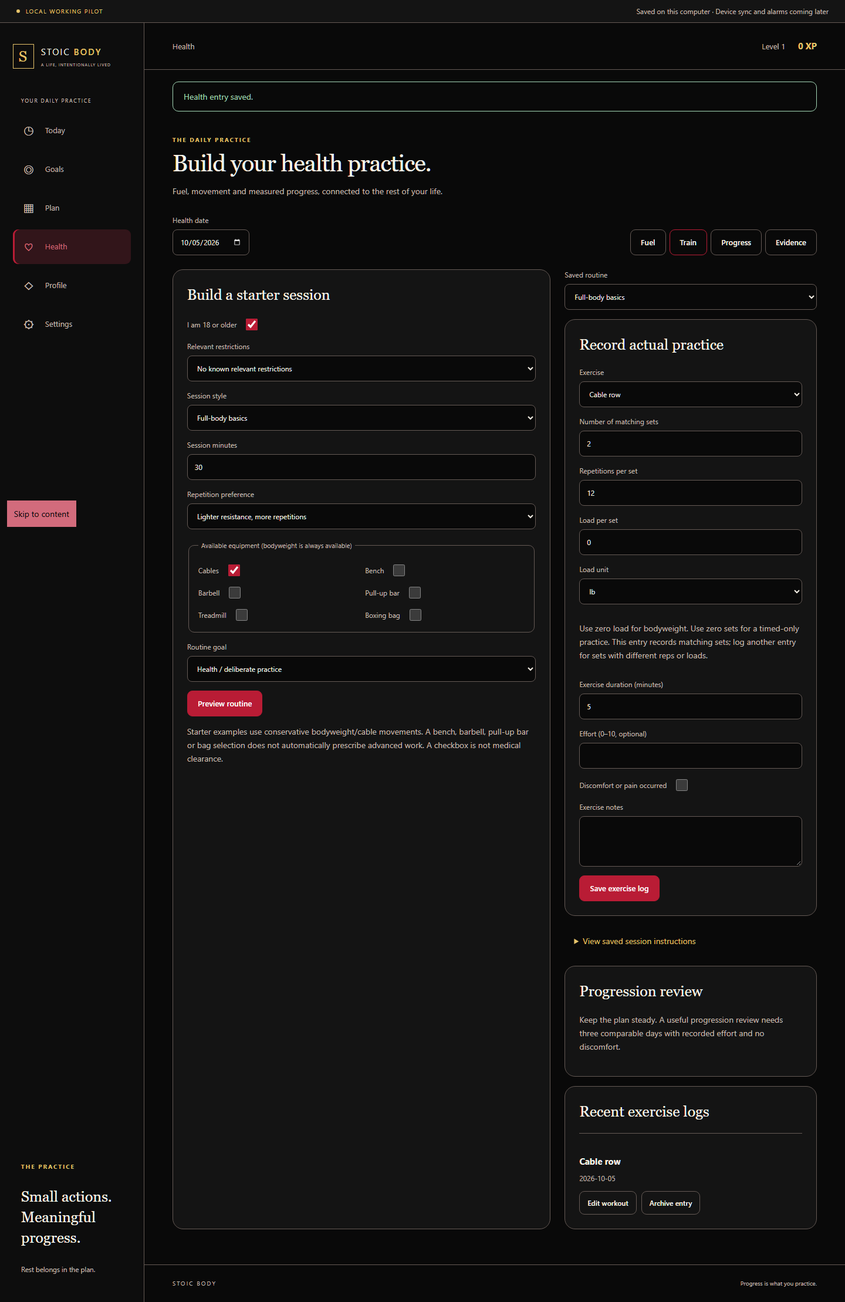
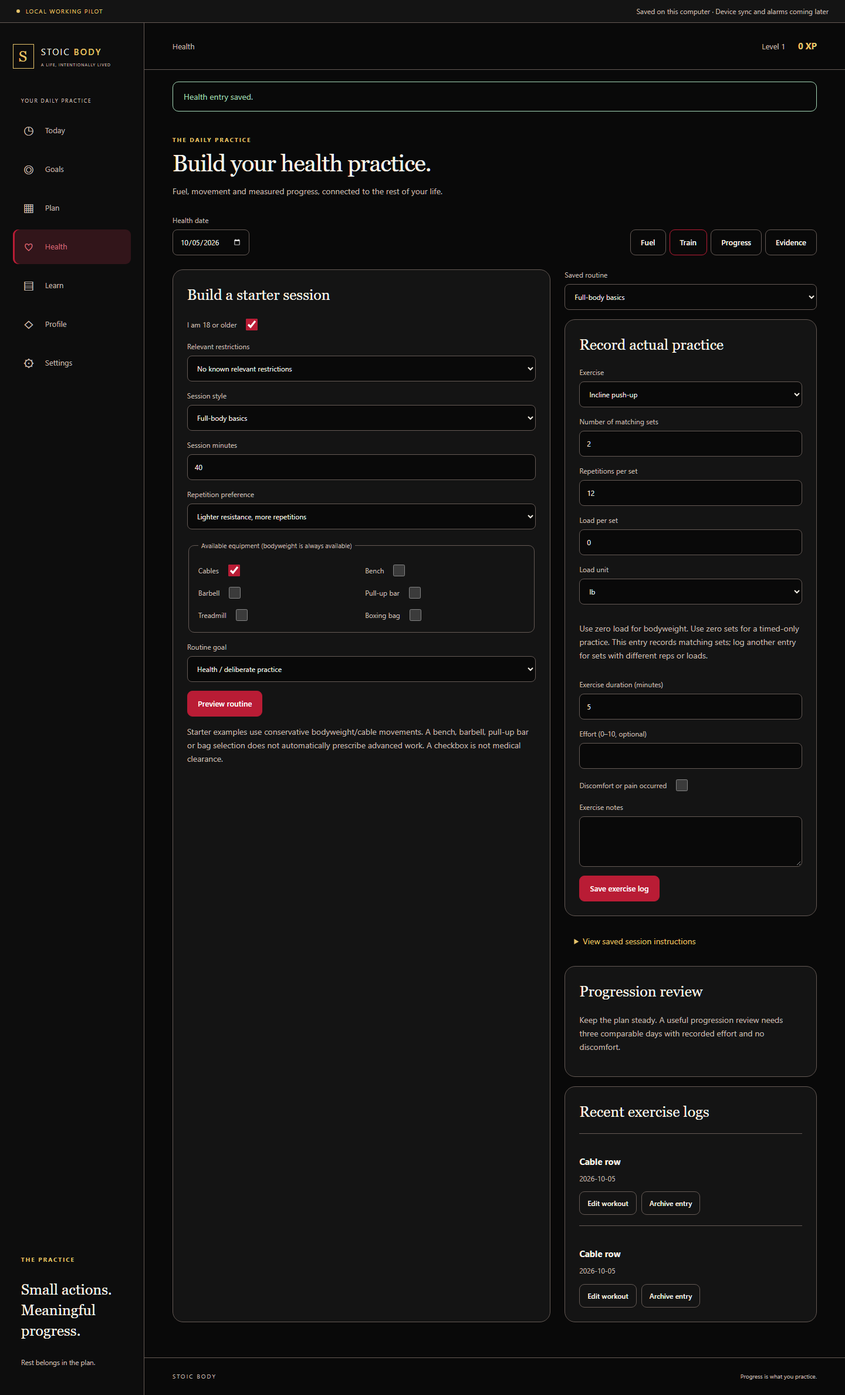
feat: connect learning paths and AI roadmap to daily practice

diff --git a/apps/local-pilot/public/learn.js b/apps/local-pilot/public/learn.js
@@ -1,0 +1,90 @@
+'use strict';
+window.Learn = (() => {
+  let ctx, catalog, selected = null, selectedCheckpoint = null, filter = 'all', loading = false, loadError = '';
+  const enrollment = id => ctx.snapshot().learning.find(e => e.id === id);
+  const el = (...args) => ctx.element(...args);
+  function link(label, url) { const a = el('a', `${label} ↗`, 'button ghost'); a.setAttribute('aria-label', label); a.href = url; a.target = '_blank'; a.rel = 'noopener noreferrer'; return a; }
+  function open(course) { selected = course.id; const saved = enrollment(course.id); selectedCheckpoint = course.checkpoints.find(s => !saved?.checkpoints[s.id]?.completed)?.id || course.checkpoints[0].id; ctx.render(); }
+  function progress(course, saved) {
+    const done = course.checkpoints.filter(s => saved?.checkpoints[s.id]?.completed).length;
+    const wrap = el('div', undefined, 'learn-progress'); const bar = el('progress'); bar.max = course.checkpoints.length; bar.value = done; bar.setAttribute('aria-label', `${course.title} checkpoint progress`);
+    wrap.append(el('span', `${done} / ${course.checkpoints.length} checkpoints`), bar); return wrap;
+  }
+  function stats(root) {
+    const s = ctx.snapshot(), states = s.learning.flatMap(e => Object.values(e.checkpoints)), taskIds = new Set(states.map(e => e.taskId));
+    const xp = s.occurrences.filter(o => taskIds.has(o.taskId)).reduce((n, o) => n + Math.floor((s.tasks.find(t => t.id === o.taskId)?.budget || 0) * o.fraction), 0);
+    const row = el('div', undefined, 'learn-stats');
+    for (const text of [`${s.learning.length} active paths`, `${states.filter(s => s.completed).length} checkpoints completed`, `${xp} practice XP`]) row.append(el('span', text, 'status-tag'));
+    root.append(row);
+  }
+  function render() {
+    ctx.intro('Build what you learn.', 'Pick a path. Practice something real. Let the next small win lead you forward.');
+    const root = el('div'); root.id = 'learn-root'; document.querySelector('#main').append(root);
+    if (!catalog) {
+      root.append(el('p', loadError || 'Opening your learning library…', 'muted'));
+      if (loadError) root.append(ctx.action('Retry course library', () => { loadError = ''; ctx.render(); }));
+      if (!loading && !loadError) { loading = true; void ctx.api('learning-content').then(result => { catalog = result.courses; }).catch(() => { loadError = 'The course library could not load. Reconnect the local app and try again.'; }).finally(() => { loading = false; if (document.querySelector('#learn-root')) ctx.render(); }); }
+      return;
+    }
+    stats(root);
+    if (selected) detail(root, catalog.find(c => c.id === selected)); else library(root);
+  }
+  function library(root) {
+    const hero = el('section', undefined, 'pilot-hero learn-hero');
+    hero.append(el('span', 'FROM CURIOSITY TO CAPABILITY', 'eyebrow'), el('h2', 'Your next skill has a starting point.'), el('p', 'Free course material from Google, Microsoft, The Odin Project, Exercism and n8n. Learn on their sites; keep your practice and progress here.'));
+    root.append(hero);
+    const filters = el('div', undefined, 'health-tabs learn-filters'); filters.setAttribute('aria-label', 'Course filters');
+    for (const [id, label] of [['all', 'All paths'], ['mine', 'My paths'], ['Beginner', 'Beginner'], ['Intermediate', 'Intermediate']]) { const b = ctx.action(label, () => { filter = id; ctx.render(); }); b.setAttribute('aria-pressed', String(filter === id)); filters.append(b); }
+    root.append(filters);
+    const grid = el('div', undefined, 'learn-grid');
+    const visible = catalog.filter(c => filter === 'all' || (filter === 'mine' ? enrollment(c.id) : c.level === filter));
+    for (const c of visible) {
+      const saved = enrollment(c.id), card = ctx.card(); card.classList.add('learn-course');
+      card.append(el('span', `${c.level} · ${c.format}`, 'eyebrow'), el('h2', c.title), el('p', c.outcome), el('p', c.provider, 'muted'), progress(c, saved));
+      const b = ctx.action(saved ? 'Continue path' : 'Explore path', () => open(c), true); b.setAttribute('aria-label', `${saved ? 'Continue' : 'Explore'} ${c.title}`); card.append(b); grid.append(card);
+    }
+    if (!visible.length) grid.append(el('p', 'Choose All paths to find your first learning path.', 'muted'));
+    root.append(grid, el('p', 'Checkpoint completion is your own record, not a provider certificate. Courses open in a new tab and need internet access; local notes and scheduling work while this app is running offline. Optional labs may use paid services.', 'muted learn-footnote'));
+  }
+  function detail(root, course) {
+    root.append(ctx.action('Back to learning library', () => { selected = null; ctx.render(); }));
+    const saved = enrollment(course.id), header = ctx.card(); header.classList.add('learn-header');
+    header.append(el('span', course.provider, 'eyebrow'), el('h2', course.title), el('p', course.outcome), progress(course, saved));
+    const links = el('div', undefined, 'pilot-actions'); links.append(link('Open full learning resource', course.url));
+    if (!saved) links.append(ctx.action('Start this path', () => ctx.command('learning.enroll', course.id, {}, 0, 'Learning path started.'), true));
+    header.append(links, el('p', `Before you start: ${course.prerequisite}`, 'muted'), el('p', course.cost, 'learn-cost'), el('p', `Links reviewed ${course.reviewed}. The checkpoints below are original starter exercises. Complete the full provider syllabus on its site; these timeboxes are for practice, not the entire course.`, 'muted'));
+    root.append(header);
+    const columns = el('div', undefined, 'learn-layout'), roadmap = ctx.card('Your practice route');
+    course.checkpoints.forEach((s, i) => {
+      const b = ctx.action(`${saved?.checkpoints[s.id]?.completed ? '✓' : String(i + 1).padStart(2, '0')}  ${s.title}`, () => { selectedCheckpoint = s.id; ctx.render(); });
+      b.classList.add('learn-step'); b.setAttribute('aria-pressed', String(selectedCheckpoint === s.id)); roadmap.append(b);
+    });
+    roadmap.append(el('p', 'Suggested order. Revisit any step at your own pace.', 'muted'));
+    const s = course.checkpoints.find(s => s.id === selectedCheckpoint) || course.checkpoints[0], state = saved?.checkpoints[s.id];
+    const work = ctx.card(s.title); work.append(el('span', `${s.minutes}-minute suggested practice`, 'eyebrow'), el('h3', 'Make this tangible'), el('p', s.deliverable), link('Open lesson or reference', s.url));
+    if (saved) {
+      const form = el('form', undefined, 'pilot-form learn-notes');
+      const label = el('label', 'Practice notes'), notes = el('textarea'); notes.setAttribute('aria-label', 'Practice notes'); notes.maxLength = 4000; notes.value = state.notes; label.append(notes); form.append(label);
+      form.addEventListener('submit', event => event.preventDefault());
+      const save = completed => ctx.command('learning.checkpoint', course.id, { checkpointId: s.id, completed, notes: notes.value }, saved.revision, 'Checkpoint saved.');
+      const actions = el('div', undefined, 'pilot-actions'); actions.append(ctx.action('Save notes', () => save(state.completed)), ctx.action(state.completed ? 'Reopen checkpoint' : 'Mark checkpoint complete', () => save(!state.completed), true));
+      form.append(actions, el('p', 'Your self-reported progress. Notes and checkmarks earn no XP; complete a scheduled practice session in Today to earn up to 15 XP.', 'muted')); work.append(form);
+      if (state.taskId) {
+        const task = ctx.snapshot().tasks.find(t => t.id === state.taskId);
+        work.append(el('p', task?.archived ? 'Practice task is archived. Restore it in Goals to schedule it.' : `Practice task saved · ${task?.durationMinutes || 0} minutes. Its completion is tracked in Today.`, 'saved-state'), ctx.action('Review schedule', () => ctx.navigate('plan')), ctx.action('Manage practice task', () => ctx.navigate('goals')));
+      } else {
+        const plan = el('form', undefined, 'pilot-form learn-plan');
+        const minutesLabel = el('label', 'Practice minutes'), minutes = el('input'); minutes.type = 'number'; minutes.min = '10'; minutes.max = '120'; minutes.step = '1'; minutes.required = true; minutes.value = String(s.minutes); minutes.setAttribute('aria-label', 'Practice minutes'); minutesLabel.append(minutes);
+        const goalLabel = el('label', 'Supporting goal'), goal = el('select'); goal.setAttribute('aria-label', 'Supporting goal');
+        for (const g of [{ id: '', title: 'Choose later' }, ...ctx.snapshot().goals.filter(g => !g.archived)]) { const o = el('option', g.title); o.value = g.id; goal.append(o); } goalLabel.append(goal);
+        const button = el('button', 'Add practice task', 'button primary'); button.type = 'submit'; button.dataset.save = '';
+        plan.append(minutesLabel, goalLabel, button, el('p', 'Adds one task for this checkpoint. Review its place in Plan before it enters your calendar.', 'muted'));
+        plan.addEventListener('submit', event => { event.preventDefault(); void ctx.command('learning.practice', course.id, { checkpointId: s.id, minutes: Number(minutes.value), goalId: goal.value || null }, saved.revision, 'Practice task added. Review its time in Plan.'); }); work.append(plan);
+      }
+      const next = course.checkpoints.find(step => !saved.checkpoints[step.id].completed && step.id !== s.id);
+      if (state.completed && next) work.append(ctx.action(`Next: ${next.title}`, () => { selectedCheckpoint = next.id; ctx.render(); }));
+    } else work.append(el('p', 'Start this path to save notes, track checkpoints and add practice to your schedule.', 'muted'));
+    columns.append(roadmap, work); root.append(columns);
+  }
+  return { init: value => { ctx = value; }, render };
+})();

diff --git a/src/core/learning-content.ts b/src/core/learning-content.ts
@@ -16,6 +16,19 @@ const links = {
 const step = (id: string, title: string, url: string, minutes: number, deliverable: string): Checkpoint => ({ id, title, url, minutes, deliverable });
 const course = (c: Omit<Course, 'reviewed'>): Course => ({ ...c, reviewed: '2026-10-04' });
 export const courses: Course[] = [
+  course({ id: 'ai-roadmap', title: 'AI from foundations to agents', provider: 'Microsoft open curricula + Google ML Crash Course', url: 'https://github.com/microsoft/AI-For-Beginners', level: 'Beginner', prerequisite: 'Start with concepts. Coding labs later need basic Python and the provider’s stated math/programming prerequisites; take extra sessions as needed.', cost: 'Free learning material. Local ML labs require suitable hardware; hosted notebooks, models and APIs may have separate costs. No paid lab is required to complete these conceptual checkpoints.', format: '11-topic guided learning path', outcome: 'Learn every concept in your AI roadmap, then connect it to a useful, testable business application. The practice order is a learning sequence, not a claim that all topics form one hierarchy.', checkpoints: [
+    step('ai', 'AI — the broad field', 'https://github.com/microsoft/AI-For-Beginners', 25, 'Read the introduction. Compare a rule-based expert system, a learned classifier and a planning agent. Draw a concept map: AI is the broad field; not every AI system learns from data.'),
+    step('ml', 'ML — learning from data', 'https://github.com/microsoft/ML-For-Beginners', 30, 'Choose a simple prediction problem. Identify examples, features and labels; sketch separate training and test data. Explain why evaluating on training examples alone is misleading.'),
+    step('dl', 'Deep learning — neural networks', 'https://developers.google.com/machine-learning/crash-course', 30, 'Study the neural networks section after its prerequisites. Draw inputs, layers and outputs. Explain how deep learning relates to machine learning, and name a case where a simpler model may be enough.'),
+    step('genai', 'Generative AI — creating content', links.genai, 30, 'Compare generating a draft with classifying an existing message. Design one useful synthetic example and a checklist for checking the generated output; distinguish fluent content from accurate content.'),
+    step('llms', 'LLMs — tokens, context and limits', 'https://developers.google.com/machine-learning/crash-course/llm', 30, 'Read the LLM introduction after the linked prerequisites. Explain tokens, context and model parameters. Write three questions where a plausible answer still needs independent verification.'),
+    step('prompting', 'Prompt engineering — clear instructions', `${links.genai}/tree/main/04-prompt-engineering-fundamentals`, 25, 'Write a task with clear context, constraints, an output format and success criteria. Compare two prompt versions on the same synthetic examples; record failures as well as improvements.'),
+    step('rag', 'RAG — retrieving useful evidence', `${links.genai}/tree/main/15-rag-and-vector-databases`, 35, 'Sketch a question-answering system over three sample documents: retrieve relevant passages, generate an answer and cite supporting evidence. Include a question the documents cannot answer. Retrieval adds context; it does not guarantee truth.'),
+    step('multimodal', 'Multimodal AI — text and images', `${links.genai}/tree/main/09-building-image-applications`, 30, 'Use the image-application lesson as an entry point. Design a workflow with text and image inputs or outputs. Write down what requires human inspection, consent and uncertainty labels; do not upload private photos for the exercise.'),
+    step('finetuning', 'Fine-tuning — changing model behavior', `${links.genai}/tree/main/18-fine-tuning`, 30, 'Compare prompting, retrieval and training updates for one use case. Define a small synthetic evaluation set and explain when fine-tuning would be unnecessary. A planning exercise is enough; do not start a paid training job.'),
+    step('safety', 'AI safety — boundaries and evaluation', `${links.genai}/tree/main/03-using-generative-ai-responsibly`, 30, 'Review a sample app for privacy, unreliable outputs, biased examples and malicious instructions in retrieved files. Write a permission rule, a failure test and a human-review step for each relevant risk.'),
+    step('agentic', 'Agentic AI — tools and controlled action', links.agents, 40, 'Design an agent that drafts a consulting deliverable using synthetic inputs. Define tools, state, a stopping rule and approval before external actions. Contrast it with a fixed workflow; use the separate agent systems path to continue.'),
+  ] }),
   course({ id: 'antigravity', title: 'Antigravity & AI-assisted building', provider: 'Google Codelabs + Antigravity docs', url: links.antigravity, level: 'Beginner', prerequisite: 'Desktop computer, Antigravity access and a small project idea.', cost: 'Free guides. Antigravity access uses your plan. Google AI Ultra has usage limits; optional credit overages and cloud labs may cost extra.', format: 'Guided labs + documentation', outcome: 'Scope, build and review a small app; understand your Ultra usage before scaling up.', checkpoints: [
     step('scope', 'Write a build brief', links.antigravity, 25, 'Describe one user, one problem and three acceptance checks. Ask for a plan, inspect its assumptions, and save the reviewed brief before generating code.'),
     step('build', 'Build one useful slice', links.build, 45, 'Implement one screen and one real interaction in a practice project. Record what you tested, one generated-code issue you found, and how you corrected it.'),

diff --git a/apps/local-pilot/public/health.js b/apps/local-pilot/public/health.js
@@ -120,14 +120,16 @@ window.Health = (() => {
     field(f, 'goal', 'Routine goal', 'select', trainingDraft.goalId || '', [['', 'Health / deliberate practice'], ...ctx.snapshot().goals.filter(g => !g.archived).map(g => [g.id, g.title])], false);
     submit(f, 'Preview routine', () => { trainingDraft = { adult: f.elements.adult.checked, restrictions: value(f, 'restrictions'), style: value(f, 'style'), minutes: numeric(f, 'minutes'), preference: value(f, 'preference'), equipment: ['cables', 'bench', 'barbell', 'pullup', 'treadmill', 'bag'].filter(k => f.elements[k].checked), goalId: value(f, 'goal') || null }; void ctx.send('training-preview', trainingDraft, 'Routine preview ready. Review before saving.'); });
     c.append(el('p', 'Starter examples use conservative bodyweight/cable movements. A bench, barbell, pull-up bar or bag selection does not automatically prescribe advanced work. A checkbox is not medical clearance.', 'muted')); left.append(c);
-    if (preview) { const review = routineCard(preview, 'Review your starter session'); if (preview.eligible) review.append(button('Save routine to tasks', () => ctx.command('training.create', crypto.randomUUID(), preview.input, 0, 'Routine saved. Review its place in Plan.'), true)); left.append(review); }
+    let previewPanel;
+    if (preview) { const review = routineCard(preview, 'Review your starter session'); previewPanel = review; if (preview.eligible) review.append(button('Save routine to tasks', () => ctx.command('training.create', crypto.randomUUID(), preview.input, 0, 'Routine saved. Review its place in Plan.'), true)); left.append(review); }
+    f.addEventListener('input', () => { preview = null; previewPanel?.remove(); });
     const routines = records().filter(r => r.kind === 'routine' && !r.archived);
     if (routines.length) {
       if (!routines.some(r => r.id === selectedRoutine)) selectedRoutine = routines[0].id;
       const picker = el('form', undefined, 'pilot-form'), select = field(picker, 'routine', 'Saved routine', 'select', selectedRoutine, routines.map(r => [r.id, r.data.title])); select.addEventListener('change', () => { selectedRoutine = select.value; selectedExercise = ''; edits.workout = null; ctx.render(); }); right.append(picker);
       const routine = routines.find(r => r.id === selectedRoutine), [log, lf, ld] = editor('workout', 'Record actual practice');
       if (!routine.data.exercises.some(e => e.name === selectedExercise)) selectedExercise = routine.data.exercises[0].name;
-      const exercise = field(lf, 'exercise', 'Exercise', 'select', selectedExercise, routine.data.exercises.map(e => [e.name, e.name])); exercise.addEventListener('change', () => { selectedExercise = exercise.value; });
+      const exercise = field(lf, 'exercise', 'Exercise', 'select', selectedExercise, routine.data.exercises.map(e => [e.name, e.name])); exercise.addEventListener('change', () => { selectedExercise = exercise.value; loadAdvice(); });
       const firstSet = ld.sets?.[0]; field(lf, 'count', 'Number of matching sets', 'number', ld.sets?.length ?? 2); field(lf, 'reps', 'Repetitions per set', 'number', firstSet?.reps ?? 12); field(lf, 'load', 'Load per set', 'number', firstSet?.load ?? 0); field(lf, 'unit', 'Load unit', 'select', firstSet?.unit || 'lb', [['lb', 'lb'], ['kg', 'kg']]);
       lf.append(el('p', 'Use zero load for bodyweight. Use zero sets for a timed-only practice. This entry records matching sets; log another entry for sets with different reps or loads.', 'muted'));
       field(lf, 'duration', 'Exercise duration (minutes)', 'number', ld.duration || 5); field(lf, 'effort', 'Effort (0–10, optional)', 'number', ld.effort, [], false); field(lf, 'pain', 'Discomfort or pain occurred', 'checkbox', ld.pain || false, [], false); field(lf, 'notes', 'Exercise notes', 'textarea', ld.notes, [], false);
@@ -135,7 +137,12 @@ window.Health = (() => {
       lf.elements.count.addEventListener('input', () => lf.elements.count.setCustomValidity(''));
       right.append(log); const details = el('details'); details.append(el('summary', 'View saved session instructions'), routineCard(routine.data)); right.append(details);
       const advice = ctx.card('Progression review'); advice.append(el('p', 'Loading your practice history…', 'muted')); right.append(advice); const current = generation;
-      void ctx.api('training-advice', { routineId: selectedRoutine, exercise: selectedExercise }).then(result => { if (current === generation && advice.isConnected) { advice.replaceChildren(el('h2', 'Progression review'), el('p', result.text, 'muted')); } }).catch(e => { if (advice.isConnected) advice.textContent = e.message; });
+      let adviceRequest = 0;
+      function loadAdvice() {
+        const request = ++adviceRequest; advice.replaceChildren(el('h2', 'Progression review'), el('p', 'Loading your practice history…', 'muted'));
+        void ctx.api('training-advice', { routineId: selectedRoutine, exercise: selectedExercise }).then(result => { if (request === adviceRequest && current === generation && advice.isConnected) { advice.replaceChildren(el('h2', 'Progression review'), el('p', result.text, 'muted')); } }).catch(e => { if (request === adviceRequest && advice.isConnected) advice.textContent = e.message; });
+      }
+      loadAdvice();
       list('workout', right, 'Recent exercise logs');
     } else right.append(el('p', 'Save a reviewed routine to unlock exercise logging. Its task will appear in Plan; you choose when it belongs in your day.', 'empty'));
     columns.append(left, right); root.append(columns);

diff --git a/scripts/test-learning-pilot.ts b/scripts/test-learning-pilot.ts
@@ -1,0 +1,47 @@
+import assert from 'node:assert/strict';
+import { chromium } from 'playwright';
+import { mkdirSync, writeFileSync, mkdtempSync, rmSync } from 'node:fs';
+import { tmpdir } from 'node:os';
+import { resolve, join, dirname, basename } from 'node:path';
+import { startPilot } from '../apps/local-pilot/server';
+async function run() {
+  const dir = mkdtempSync(join(tmpdir(), 'stoic-learning-')), databasePath = join(dir, 'learning.sqlite');
+  let pilot = await startPilot({ databasePath, port: 0 });
+  let browser = await chromium.launch({ headless: true });
+  let page = await browser.newPage({ viewport: { width: 1440, height: 1000 }, timezoneId: 'America/Denver' });
+  const checks: string[] = [], errors: string[] = []; page.on('pageerror', e => errors.push(e.message)); page.setDefaultTimeout(5000);
+  const check = (name: string, value = true) => { assert.ok(value, name); checks.push(name); };
+  const evidence = resolve('docs/evidence/phase-6-learning'); mkdirSync(evidence, { recursive: true });
+  try {
+    await page.goto(`${pilot.url}/?view=learn`); await page.getByRole('heading', { name: 'Build what you learn.' }).waitFor();
+    await page.getByRole('button', { name: 'Explore Antigravity & AI-assisted building', exact: true }).click();
+    check('real external guide with isolated new tab', await page.getByRole('link', { name: 'Open full learning resource' }).getAttribute('href') === 'https://codelabs.developers.google.com/getting-started-google-antigravity');
+    check('Ultra cost boundary visible', (await page.locator('#main').innerText()).includes('Google AI Ultra has usage limits'));
+    await page.getByRole('button', { name: 'Start this path', exact: true }).click(); await page.getByText('Learning path started.', { exact: true }).waitFor();
+    await page.getByLabel('Practice notes').fill('Synthetic build brief, three acceptance checks.');
+    await page.getByRole('button', { name: 'Mark checkpoint complete', exact: true }).click(); await page.getByText('Checkpoint saved.', { exact: true }).waitFor();
+    check('checkpoint progress remains separate from XP', (await page.locator('#main').innerText()).includes('1 / 4 checkpoints') && (await page.locator('#total-xp').innerText()) === '0 XP');
+    await page.getByRole('button', { name: 'Reopen checkpoint', exact: true }).click(); await page.getByText('0 / 4 checkpoints', { exact: true }).waitFor();
+    check('checkpoint completion can be reversed');
+    await page.getByRole('button', { name: 'Add practice task', exact: true }).click(); await page.getByText('Practice task added. Review its time in Plan.', { exact: true }).waitFor();
+    check('repeat planning is replaced by a link to the existing task', await page.getByRole('button', { name: 'Add practice task', exact: true }).count() === 0);
+    await page.screenshot({ path: join(evidence, 'learn-desktop.png'), fullPage: true });
+    await page.getByRole('button', { name: 'Plan', exact: true }).click(); await page.locator('#plan-form input[name=date]').fill('2026-10-06');
+    await page.getByRole('button', { name: 'Preview schedule', exact: true }).click(); await page.getByRole('button', { name: 'Accept schedule', exact: true }).click();
+    await page.getByRole('button', { name: 'Today', exact: true }).click(); await page.getByRole('button', { name: 'Complete', exact: true }).click(); await page.locator('#total-xp').filter({ hasText: '15 XP' }).waitFor();
+    check('practice earns the agreed 15 XP through calendar completion');
+    await page.getByRole('button', { name: 'Learn', exact: true }).click(); await page.getByText('15 practice XP', { exact: true }).waitFor();
+    await page.setViewportSize({ width: 390, height: 844 }); check('Learn fits a narrow mobile screen', await page.evaluate(() => document.documentElement.scrollWidth <= innerWidth));
+    await page.screenshot({ path: join(evidence, 'learn-mobile.png'), fullPage: true });
+    await browser.close(); await pilot.close(); pilot = await startPilot({ databasePath, port: 0 });
+    browser = await chromium.launch({ headless: true }); page = await browser.newPage(); page.setDefaultTimeout(5000); page.on('pageerror', e => errors.push(e.message));
+    await page.goto(`${pilot.url}/?view=learn`); await page.getByRole('button', { name: 'Continue Antigravity & AI-assisted building', exact: true }).click();
+    assert.equal(await page.getByLabel('Practice notes').inputValue(), 'Synthetic build brief, three acceptance checks.'); await page.getByText('15 practice XP', { exact: true }).waitFor();
+    check('notes, linked task and XP survive a real server restart');
+    await page.getByRole('button', { name: 'Back to learning library', exact: true }).click();
+    await page.getByRole('button', { name: 'My paths', exact: true }).click(); check('enrolled filter shows one course', await page.locator('.learn-course').count() === 1);
+    check('no browser runtime errors', errors.length === 0);
+    writeFileSync(join(evidence, 'browser-checks.json'), JSON.stringify({ at: new Date().toISOString(), checks, errors }, null, 2)); console.log(`${checks.length} learning browser checks passed.`);
+  } finally { await browser.close(); await pilot.close(); const target = resolve(dir); assert.equal(dirname(target), resolve(tmpdir())); assert.ok(basename(target).startsWith('stoic-learning-')); rmSync(target, { recursive: true, force: true }); }
+}
+run().catch(e => { console.error(e); process.exitCode = 1; });

diff --git a/apps/local-pilot/public/styles.css b/apps/local-pilot/public/styles.css
@@ -4,3 +4,6 @@
 .pilot-form .checkbox-label{display:flex;flex-direction:row;align-items:center;gap:12px}.pilot-form .checkbox-label input{width:20px;height:20px;min-height:20px;accent-color:var(--action)}
 .health-toolbar{display:flex;align-items:end;justify-content:space-between;gap:20px;margin:12px 0 24px}.health-tabs{display:flex;flex-wrap:wrap;gap:6px}.health-tabs [aria-current=page]{border-color:var(--action);background:var(--action-soft);color:var(--text)}.health-primary-metric{font-size:20px;line-height:1.5;color:var(--gold)}.health-source{font-size:12px;overflow-wrap:anywhere}.health-source a{color:var(--gold);text-decoration:underline}.health-source small{display:block;line-height:1.6}.health-table{width:100%;border-collapse:collapse;font-size:13px}.health-table caption{text-align:left;padding:12px 0;color:var(--muted)}.health-table th,.health-table td{padding:10px;border-bottom:1px solid var(--line);text-align:left}.pilot-form fieldset{border:1px solid var(--line);border-radius:10px;display:grid;grid-template-columns:1fr 1fr;gap:12px;padding:16px}.pilot-form legend{font-size:11px;color:var(--muted);padding:5px}.pilot-form details label{display:grid;gap:8px;margin-top:12px}.pilot-card h3{margin-top:18px}.pilot-card p{line-height:1.65;overflow-wrap:anywhere}.pilot-stack>details>summary{cursor:pointer;padding:16px;color:var(--gold)}
 @media(max-width:700px){.health-toolbar{display:grid;gap:18px}.health-tabs{display:grid;grid-template-columns:repeat(4,1fr)}.health-tabs button{padding:10px 8px}.health-primary-metric{font-size:18px}.pilot-form fieldset{grid-template-columns:1fr 1fr}}
+.learn-stats{display:flex;flex-wrap:wrap;gap:10px;margin-bottom:24px}.learn-stats .status-tag{font-size:12px;padding:8px 12px}.learn-filters{margin:26px 0 20px}.learn-filters [aria-pressed=true],.learn-step[aria-pressed=true]{background:var(--soft);border-color:var(--action);color:var(--text)}.learn-grid{display:grid;grid-template-columns:repeat(2,minmax(0,1fr));gap:20px}.learn-course{display:flex;align-items:start;flex-direction:column;gap:12px}.learn-course h2{margin:4px 0 0}.learn-course p{margin:0}.learn-course .eyebrow{font-size:9px;line-height:1.8;letter-spacing:1px}.learn-course .learn-progress{margin-top:auto}.learn-progress{display:grid;gap:9px;width:100%;color:var(--muted);font-size:12px;padding:14px 0}.learn-progress progress{width:100%;height:7px;border:0;border-radius:8px;background:var(--line);accent-color:var(--gold)}.learn-progress progress::-webkit-progress-bar{background:var(--line);border-radius:8px}.learn-progress progress::-webkit-progress-value{background:var(--gold);border-radius:8px}.learn-header{margin:20px 0}.learn-header h2{margin:10px 0}.learn-header .muted{font-size:12px}.learn-cost{border-left:2px solid var(--gold);padding-left:14px;font-size:13px}.learn-layout{display:grid;grid-template-columns:minmax(200px,1fr) minmax(0,1.7fr);gap:20px;align-items:start}.learn-step{width:100%;display:block;text-align:left;margin:10px 0;white-space:normal;line-height:1.5}.learn-notes{margin-top:24px}.learn-plan{padding-top:24px;margin-top:24px;border-top:1px solid var(--line)}.learn-footnote{font-size:12px;margin-top:24px}.learn-layout .muted{font-size:12px}.learn-layout a.button,.learn-header a.button{white-space:normal;text-align:left;overflow-wrap:anywhere}
+@media(max-width:900px){.learn-layout{grid-template-columns:1fr}.learn-grid{grid-template-columns:1fr}.learn-stats{gap:7px}.learn-stats .status-tag{font-size:10px}.learn-filters .button{font-size:12px;padding:10px 12px}}
+.skip-link:not(:focus){clip-path:inset(50%);width:1px;height:1px;overflow:hidden;padding:0}

diff --git a/scripts/test-health-pilot.ts b/scripts/test-health-pilot.ts
@@ -35,11 +35,17 @@ async function run() {
     await page.getByRole('button', { name: 'Preview routine', exact: true }).click();
     await page.getByText(/Starter generation is for adults/).waitFor(); check('unknown suitability cannot save a generated routine', await page.getByRole('button', { name: 'Save routine to tasks', exact: true }).count() === 0);
     await page.getByLabel('I am 18 or older', { exact: true }).check(); await page.getByLabel('Relevant restrictions').selectOption('none'); await page.getByLabel('Cables', { exact: true }).check();
+    await page.getByRole('button', { name: 'Preview routine', exact: true }).click(); await page.getByRole('button', { name: 'Save routine to tasks', exact: true }).waitFor(); await page.getByLabel('Session minutes').fill('40');
+    check('changed inputs invalidate the earlier routine preview', await page.getByRole('button', { name: 'Save routine to tasks', exact: true }).count() === 0);
     await page.getByRole('button', { name: 'Preview routine', exact: true }).click(); await page.getByRole('button', { name: 'Save routine to tasks', exact: true }).click();
     await page.getByText('Routine saved. Review its place in Plan.', { exact: true }).waitFor(); check('routine is saved as an unscheduled task');
     await page.getByLabel('Exercise', { exact: true }).selectOption({ label: 'Cable row' });
     await page.getByLabel('Repetitions per set').fill('12'); await page.getByLabel('Load per set').fill('20'); await page.getByLabel('Effort (0–10, optional)').fill('6'); await saved('Save exercise log');
     check('exercise log alone does not award XP', await page.locator('#total-xp').textContent() === '0 XP');
+    await page.getByLabel('Discomfort or pain occurred').check(); await saved('Save exercise log');
+    await page.getByText(/Recent discomfort or very high effort:/).waitFor();
+    await page.getByLabel('Exercise', { exact: true }).selectOption({ label: 'Incline push-up' });
+    await page.getByText(/Keep the plan steady. A useful progression review/).waitFor(); check('progression advice follows the selected exercise');
     await page.screenshot({ path: join(evidence, 'health-desktop.png'), fullPage: true });
     await page.getByRole('button', { name: 'Plan', exact: true }).click(); await page.getByRole('button', { name: 'Preview schedule', exact: true }).click(); await page.getByRole('button', { name: 'Accept schedule', exact: true }).click();
     await page.getByRole('button', { name: 'Today', exact: true }).click(); await page.getByRole('button', { name: 'Complete', exact: true }).click(); await page.locator('#total-xp').filter({ hasText: '25 XP' }).waitFor(); check('scheduled workout grants the existing single award');

diff --git a/tests/core/learning.test.ts b/tests/core/learning.test.ts
@@ -1,6 +1,7 @@
 import test from 'node:test';
 import assert from 'node:assert/strict';
 import { CoreRepository, type Command } from '../../src/core/repository';
+import { courses } from '../../src/core/learning-content';
 const cmd = (type: string, payload = {}, baseRevision = 0, entityId = 'antigravity'): Command => ({ schemaVersion: 1, operationId: crypto.randomUUID(), deviceId: 'test', entityId, type, payload, baseRevision });
 function setup() { const r = new CoreRepository(':memory:'); r.createOwner('one'); r.createOwner('two'); return r; }
 test('learning enrollment is owned, revisioned and cannot generate XP', () => {
@@ -28,5 +29,18 @@ test('one practice task per checkpoint survives new operation IDs and rolls back
     r.database.exec("CREATE TRIGGER fail_learning BEFORE UPDATE ON core_learning BEGIN SELECT RAISE(ABORT,'test rollback'); END;");
     assert.throws(() => r.apply('one', cmd('learning.practice', { ...p, checkpointId: 'build' }, 2)), /rollback/);
     s = r.snapshot('one'); assert.equal(s.tasks.length, 1); assert.equal(s.learning[0].checkpoints.build.taskId, null);
+  } finally { r.close(); }
+});
+test('every requested AI concept can enter the shared schedule without awarding checkpoint XP', () => {
+  const r = setup(); try {
+    const course = courses.find(c => c.id === 'ai-roadmap')!;
+    assert.deepEqual(course.checkpoints.map(c => c.id).sort(), ['ai','ml','dl','genai','llms','prompting','rag','multimodal','finetuning','safety','agentic'].sort());
+    r.apply('one', cmd('learning.enroll', {}, 0, course.id));
+    course.checkpoints.forEach((c, i) => r.apply('one', cmd('learning.practice', { checkpointId: c.id, minutes: c.minutes, goalId: null }, i + 1, course.id)));
+    const s = r.snapshot('one'); assert.equal(s.tasks.length, 11); assert.equal(s.totalXp, 0);
+    const proposal = r.proposeDay('one', { date: '2026-10-06', timezone: 'America/Denver', startTime: '09:00', endTime: '09:30' });
+    assert.ok(proposal.proposal.placements.length <= 1); assert.ok(proposal.proposal.placements.length > 0);
+    assert.equal(r.snapshot('one').occurrences.length, 0);
+    for (const c of courses) for (const step of c.checkpoints) assert.equal(new URL(step.url).protocol, 'https:');
   } finally { r.close(); }
 });

diff --git a/apps/local-pilot/public/app.js b/apps/local-pilot/public/app.js
@@ -1,9 +1,11 @@
-/* global Appearance, Health */
+/* global Appearance, Health, Learn */
 'use strict';
 const $ = selector => document.querySelector(selector);
-const labels = { today: 'Today', goals: 'Goals', plan: 'Plan', health: 'Health', profile: 'Profile', settings: 'Settings' };
+const labels = { today: 'Today', goals: 'Goals', plan: 'Plan', health: 'Health', learn: 'Learn', profile: 'Profile', settings: 'Settings' };
 const kinds = { task: 'Small task · 5 XP', focus: 'Focus / learning · 15 XP', workout: 'Workout · 25 XP', recovery: 'Recovery · 15 XP', reflection: 'Reflection · 10 XP', weeklyReview: 'Weekly review · 30 XP' };
 let snapshot, token, currentView = 'today', busy = false, pendingRequest = null, preview = null, editTask = null, editGoal = null;
+const requestedView = new URLSearchParams(location.search).get('view');
+if (Object.hasOwn(labels, requestedView)) currentView = requestedView;
 let timezone = Intl.DateTimeFormat().resolvedOptions().timeZone;
 let selectedDate = new Intl.DateTimeFormat('en-CA', { timeZone: timezone, year: 'numeric', month: '2-digit', day: '2-digit' }).format(new Date());
 let questionId = 'goals';
@@ -84,7 +86,7 @@ function render() {
   const l = level(snapshot.totalXp); $('#level-label').textContent = `Level ${l.rank}`;
   document.querySelectorAll('#navigation button').forEach(b => { if (b.dataset.view === currentView) b.setAttribute('aria-current', 'page'); else b.removeAttribute('aria-current'); });
   $('#main').replaceChildren();
-  ({ today: renderToday, goals: renderGoals, plan: renderPlan, health: Health.render, profile: renderProfile, settings: renderSettings })[currentView]();
+  ({ today: renderToday, goals: renderGoals, plan: renderPlan, health: Health.render, learn: Learn.render, profile: renderProfile, settings: renderSettings })[currentView]();
   setBusy(busy);
 }
 function renderToday() {
@@ -231,4 +233,5 @@ async function boot() {
   finally { setBusy(false); }
 }
 Health.init({ element, action, card, intro, snapshot: () => snapshot, date: () => selectedDate, setDate: d => { selectedDate = d; }, api, command, send, render });
+Learn.init({ element, action, card, intro, snapshot: () => snapshot, api, command, render, navigate });
 void boot();

diff --git a/apps/local-pilot/server.ts b/apps/local-pilot/server.ts
@@ -9,6 +9,7 @@ import { object, keys, text, zone } from '../../src/core/validation';
 import { diets } from '../../src/core/health-content';
 import { summarizeHealth } from '../../src/core/health-metrics';
 import { buildRoutine, trainingStyles, progressionAdvice } from '../../src/core/training';
+import { courses } from '../../src/core/learning-content';
 
 export interface PilotOptions { databasePath: string; port: number }
 export interface PilotServer { url: string; close: () => Promise<void> }
@@ -17,6 +18,7 @@ const assets: Record<string, [string, string]> = {
   '/': ['apps/local-pilot/public/index.html', 'text/html'],
   '/app.js': ['apps/local-pilot/public/app.js', 'text/javascript'],
   '/health.js': ['apps/local-pilot/public/health.js', 'text/javascript'],
+  '/learn.js': ['apps/local-pilot/public/learn.js', 'text/javascript'],
   '/styles.css': ['apps/local-pilot/public/styles.css', 'text/css'],
   '/base.css': ['prototypes/phase-3/styles.css', 'text/css'],
   '/appearance.js': ['prototypes/phase-3/appearance.js', 'text/javascript'],
@@ -68,6 +70,7 @@ export async function startPilot(options: PilotOptions): Promise<PilotServer> {
         if (!secretEquals(cookie, session) || typeof supplied !== 'string' || !secretEquals(supplied, token)) throw new HttpError(403, 'Your local session expired. Reload the app.');
         if (path === '/api/snapshot' && request.method === 'GET') { json(response, 200, { snapshot: repository.snapshot(owner) }); return; }
         if (path === '/api/health-content' && request.method === 'GET') { json(response, 200, { diets, trainingStyles }); return; }
+        if (path === '/api/learning-content' && request.method === 'GET') { json(response, 200, { courses }); return; }
         if (request.method !== 'POST' || request.headers.origin !== origin) throw new HttpError(403, 'Save requests must come from this app.');
         const data = await body(request);
         if (path === '/api/training-preview') { json(response, 200, buildRoutine(data)); return; }

diff --git a/apps/local-pilot/public/index.html b/apps/local-pilot/public/index.html
@@ -1,6 +1,6 @@
 <!doctype html>
 <html lang="en" data-theme="night">
-<head><meta charset="utf-8"><meta name="viewport" content="width=device-width,initial-scale=1"><title>Stoic Body · Your daily practice</title><link rel="stylesheet" href="/base.css"><link rel="stylesheet" href="/styles.css"><script src="/appearance.js" defer></script><script src="/health.js" defer></script><script src="/app.js" defer></script></head>
+<head><meta charset="utf-8"><meta name="viewport" content="width=device-width,initial-scale=1"><title>Stoic Body · Your daily practice</title><link rel="stylesheet" href="/base.css"><link rel="stylesheet" href="/styles.css"><script src="/appearance.js" defer></script><script src="/health.js" defer></script><script src="/learn.js" defer></script><script src="/app.js" defer></script></head>
 <body>
 <a class="skip-link" href="#main">Skip to content</a>
 <div class="pilot-notice"><span class="live-dot" aria-hidden="true"></span> LOCAL WORKING PILOT <span>Saved on this computer · Device sync and alarms coming later</span></div>
@@ -12,6 +12,7 @@
   <button data-view="goals"><span aria-hidden="true">◎</span>Goals</button>
   <button data-view="plan"><span aria-hidden="true">▦</span>Plan</button>
   <button data-view="health"><span aria-hidden="true">♡</span>Health</button>
+  <button data-view="learn"><span aria-hidden="true">▤</span>Learn</button>
   <button data-view="profile"><span aria-hidden="true">◇</span>Profile</button>
   <button data-view="settings"><span aria-hidden="true">⚙</span>Settings</button>
  </nav>

diff --git a/src/core/training.ts b/src/core/training.ts
@@ -17,6 +17,7 @@ export function buildRoutine(input: unknown): Routine {
   if (style === 'walk' && !equipment.includes('treadmill')) reasons.push('A treadmill is required for this selection. An outdoor walk can be entered as an ordinary task.');
   const reps = preference === 'higher-reps' ? '2 sets of 12–20 controlled repetitions' : '2 sets of 8–12 controlled repetitions';
   const block = preference === 'higher-reps' ? 6 : 5;
+  if (style === 'full-body' && minutes < 8 + 3 * block) reasons.push(`This full-body starter needs at least ${8 + 3 * block} minutes to include pushing, pulling and legs plus warm-up/cooldown. Choose a longer window or a focused shorter session.`);
   const strength = (name: string, cue: string, alternative: string): Exercise => ({ name, cue, alternative, minutes: block, prescription: `${reps}; rest 60–90 seconds between sets. Start with an easy load; stop before technique changes.` });
   const push = strength('Incline push-up', 'Use a stable fixed surface. Keep your body aligned and lower only through a comfortable range.', 'Use a higher stable surface or a wall.');
   const pull = equipment.includes('cables') ? strength('Cable row', 'Set a light load. Keep your torso quiet and draw your elbows back without shrugging or jerking.', 'Prone W raise for light control work; it is not an equivalent loaded pull.') : strength('Prone W raise', 'Lie face down with elbows bent into a W. Lift the hands slightly without forcing your back or neck.', 'A light cable row when equipment and technique are available.');

diff --git a/tests/core/training.test.ts b/tests/core/training.test.ts
@@ -17,6 +17,13 @@ test('routine generation respects screening, equipment and time', () => {
   assert.ok(routine.exercises.every(e => e.cue && e.alternative && e.prescription));
   assert.equal(buildRoutine({ ...input, style: 'boxing', equipment: [] }).exercises.some(e => e.name.includes('Bag')), false);
 });
+test('short full-body requests cannot silently omit all lower-body training', () => {
+  const tooShort = buildRoutine({ ...input, minutes: 20 });
+  assert.equal(tooShort.eligible, false);
+  assert.match(tooShort.reasons.join(' '), /26 minutes/);
+  const enough = buildRoutine({ ...input, minutes: 26 });
+  assert.equal(enough.eligible, true); assert.ok(enough.exercises.some(e => e.name === 'Bodyweight squat'));
+});
 test('routine and matching task persist atomically and replay without duplication or XP', () => {
   const r = new CoreRepository(':memory:'); r.createOwner('one');
   try {
